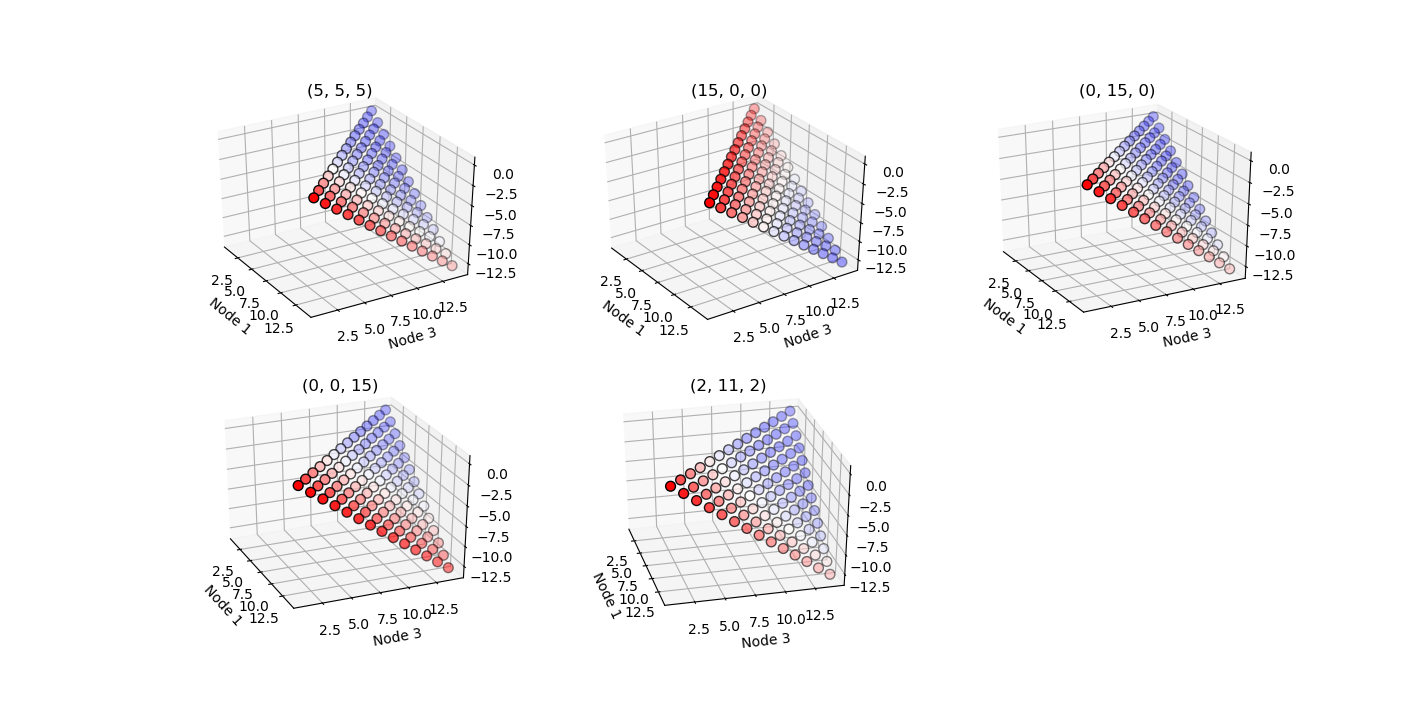
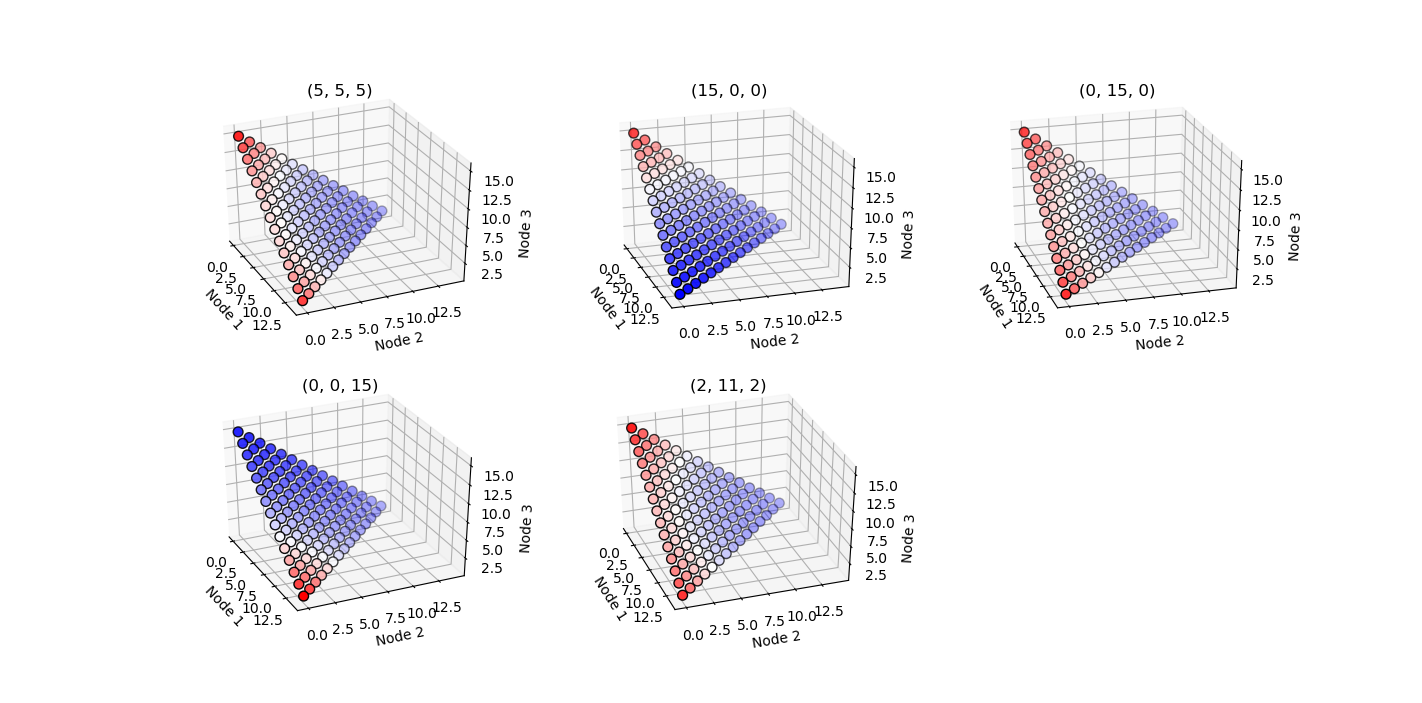
Implemented non-linear optimization for general line network

diff --git a/model/analytical.py b/model/analytical.py
@@ -1,0 +1,54 @@
+from scipy.optimize import minimize
+from numpy import array, sum, round
+from math import fabs
+
+# x = [R_1, R_2, R_3, B_1, B_2, B_3]
+#       0    1    2    3    4    5
+N = 10
+balls_per = 5
+num_balls = N * balls_per
+R = [balls_per] * N
+
+# Generate line network
+network = [[(1 if fabs(i-j) <= 1 else 0) for j in range(N)] for i in range(N)]
+
+
+# Define exposure function
+def exposure(B):
+
+    expsr = 0
+    for node in network:                        # For each node
+        r_sum, b_sum = 0, 0
+        for i, rel in enumerate(node):          # Sum all neighbours
+            if rel != 0:                        # Only sum if there is a connection
+                r_sum += R[i]
+                b_sum += B[i]
+
+        if r_sum + b_sum != 0:                  # Only add to sum if non-zero denominator
+            expsr += r_sum / (r_sum + b_sum)
+
+    return expsr
+
+
+# Define constraint function
+def cons_func(x):
+    return sum(x) - num_balls
+
+
+# Bounds on nodes
+b = (0, num_balls)
+bounds = [b] * N
+
+# Define constraints and options
+cons = {'type': 'eq', 'fun': cons_func}
+ops = {'disp': True}
+
+# Define initial conditions
+init = array([balls_per] * N)
+
+# Run optimization
+optimal = minimize(exposure, init, constraints=cons, method='SLSQP', options=ops, bounds=bounds)
+
+
+# print('optimal: ', optimal)
+print('Optimal ball placement:', round(optimal.x))

diff --git a/three_node/surface.py b/three_node/surface.py
@@ -24,7 +24,7 @@ def generate_fig(R, num):
     x, y, z, c = [], [], [], []
 
     for i in range(num_balls):
-        for j in range(num_balls-i, num_balls):
+        for j in range(0, num_balls-i):
             k = num_balls - i - j
             exp = exposure((i, j, k), R)
             x.append(i)
@@ -32,11 +32,12 @@ def generate_fig(R, num):
             z.append(k)
             c.append(exp)
 
-    ax.scatter(x, y, z, c=c, s=50, edgecolor='black', cmap='bwr')
+    p = ax.scatter(x, y, z, c=c, s=50, edgecolor='black', cmap='bwr')
     ax.set_xlabel('Node 1')
     ax.set_ylabel('Node 2')
-    ax.set_ylabel('Node 3')
+    ax.set_zlabel('Node 3')
     ax.set_title(str(R))
+    fig.colorbar(p)
 
 
 # Possible red distributions
